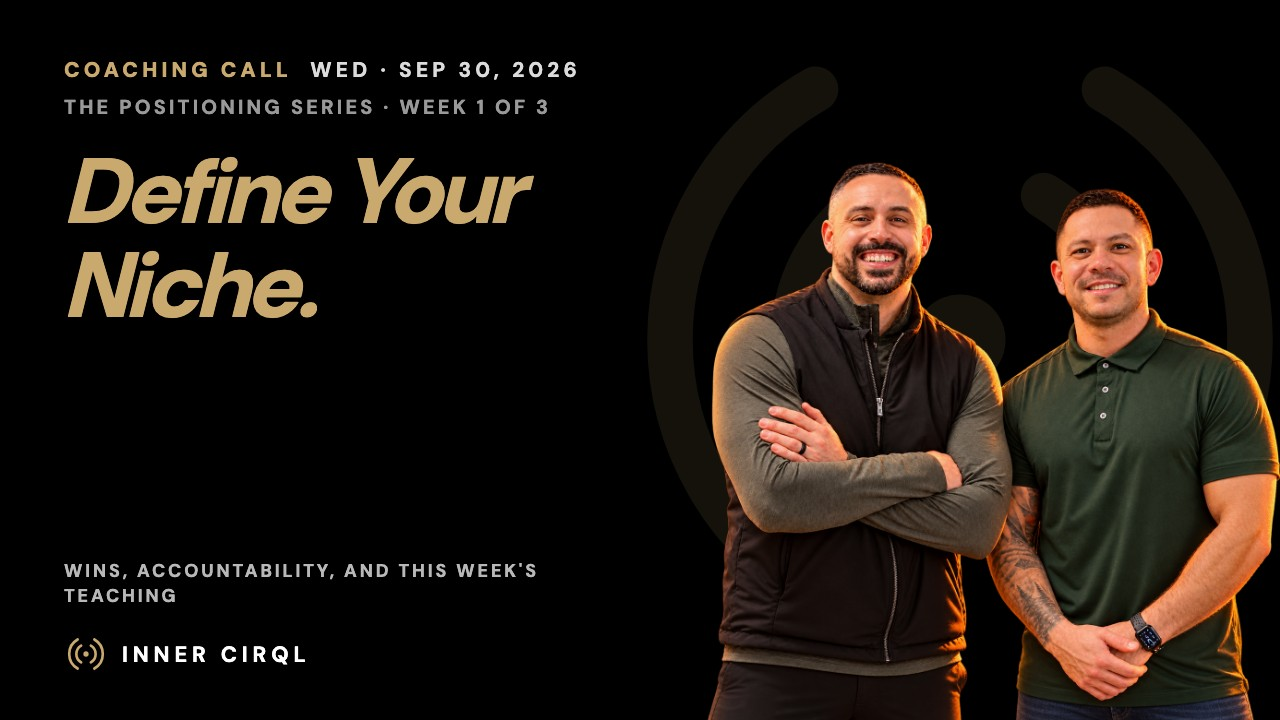
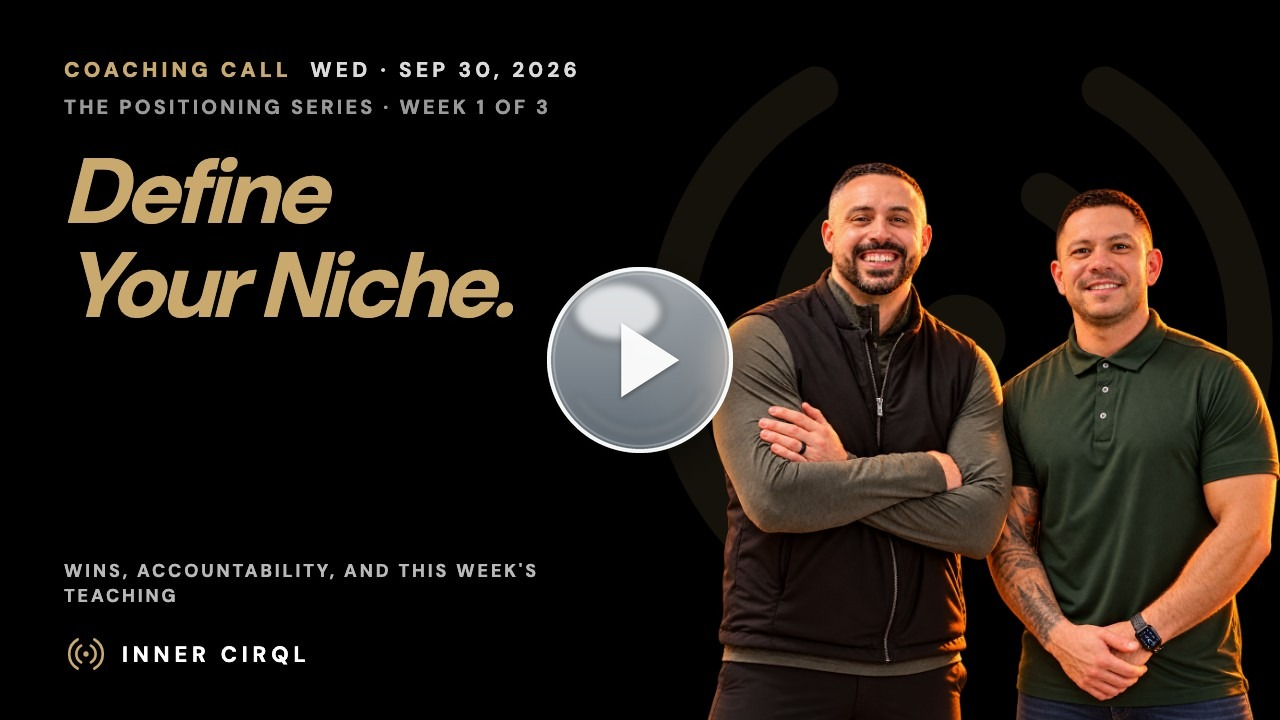
Training: retitle Sep 30 coaching call (The Positioning Series · Week 1 · Niche.) + thumbnail

Changed region(s): [[0.4062, 0.3667, 0.5938, 0.6417], [0.0312, 0.3361, 0.4062, 0.4583], [0.2812, 0.2139, 0.4375, 0.3361]]

diff --git a/training/index.html b/training/index.html
@@ -94,6 +94,26 @@ window.LIBRARY = {
   ],
   "items": [
     {
+      "id": "v-2026-09-30",
+      "date": "2026-09-30",
+      "dateLabel": "September 30, 2026",
+      "series": "positioning",
+      "week": 1,
+      "name": "Niche.",
+      "title": "The Positioning Series · Week 1 · Niche.",
+      "headline": [
+        "Define Your",
+        "Niche."
+      ],
+      "sub": "The Positioning Series · Week 1 of 3",
+      "desc": "Define your Niche with the 3 P's: Person, Problem, Process. The Sweet Spot, Agent A vs Agent B, Meet Kayla the Downsizing Specialist, and your one-paragraph positioning statement. Wins, accountability, and the teaching segment, edited replay.",
+      "href": "https://coach.theinnercirql.com/2026-09-30/",
+      "pdf": null,
+      "slides": null,
+      "embed": "https://www.youtube.com/embed/qGBMIxAKihI?rel=0&modestbranding=1",
+      "thumb": "/assets/thumbs/sep-30-call.jpg?v=29920129"
+    },
+    {
       "id": "v-2026-09-23",
       "date": "2026-09-23",
       "dateLabel": "September 23, 2026",
@@ -532,26 +552,6 @@ window.LIBRARY = {
       "slides": null,
       "embed": "https://www.youtube.com/embed/leBovFWZylc?rel=0&modestbranding=1",
       "thumb": "/assets/thumbs/oct-7-call.jpg?v=1"
-    },
-    {
-      "id": "v-2026-09-30",
-      "date": "2026-09-30",
-      "dateLabel": "September 30, 2026",
-      "series": "positioning",
-      "week": 1,
-      "name": "Niche.",
-      "title": "The Positioning Series · Week 1 · Niche.",
-      "headline": [
-        "Define Your",
-        "Niche."
-      ],
-      "sub": "The Positioning Series · Week 1 of 3",
-      "desc": "Define your Niche with the 3 P's: Person, Problem, Process. The Sweet Spot, Agent A vs Agent B, Meet Kayla the Downsizing Specialist, and your one-paragraph positioning statement. Wins, accountability, and the teaching segment, edited replay.",
-      "href": "https://coach.theinnercirql.com/2026-09-30/",
-      "pdf": null,
-      "slides": null,
-      "embed": "https://www.youtube.com/embed/qGBMIxAKihI?rel=0&modestbranding=1",
-      "thumb": "/assets/thumbs/sep-30-call.jpg?v=1"
     },
     {
       "id": "t-become-a-listing-magnet",
